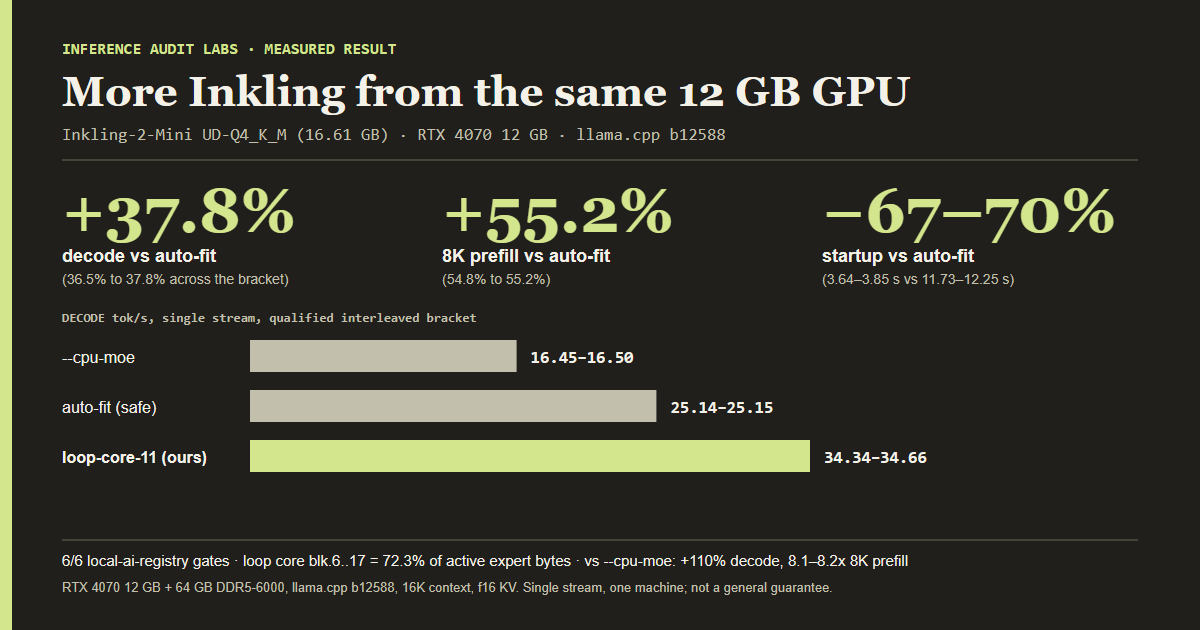
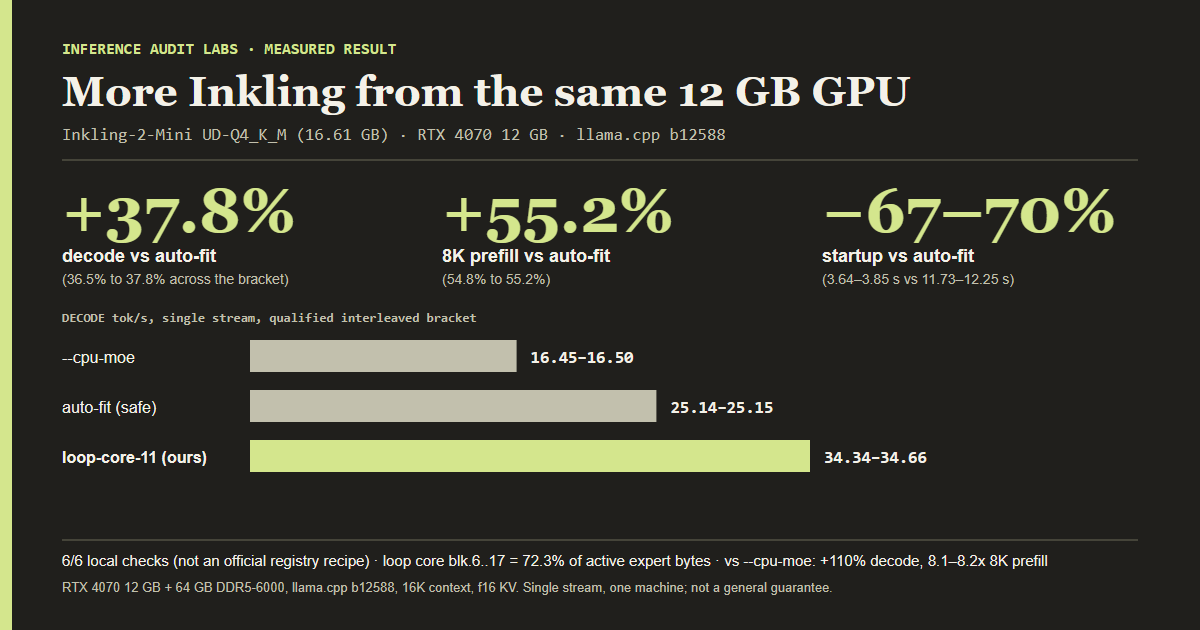
Tighten local acceptance check wording to distinguish from official local-ai-registry recipes

Changed region(s): [[0.0925, 0.8746, 0.8942, 0.9048]]

diff --git a/public/claims.html b/public/claims.html
@@ -76,7 +76,7 @@
 <p><strong>Claim.</strong> Inference Audit 0.2.1. Seventy-eight test cases passed in a fresh rerun of the 0.2.1 source suite on Windows during public preparation. Local native CUDA shutdown remains unverified.</p>
 <p><strong>Evidence / method.</strong> Installed wheel hash, CLI version and <code>pytest -q</code> test output are recorded in <a href="publication-checklist.html">publication checks</a>. Wheel and source version match. This is a local rerun; external reviews and native CUDA process control are separate claims. Used in the checklist and release notes.</p>
 <h2 id="p8-inkling">P8-INKLING</h2>
-<p><strong>Claim.</strong> Inkling-2-Mini (Unsloth UD-Q4_K_M, 16,610,543,328 bytes) on an RTX 4070 12 GB with 64 GB DDR5-6000 and llama.cpp b12588 (<code>883286076efe5b85fddb31d9cc7035a6b698ba9b</code>): the loop-aware placement <code>loop-core-11-nommap-ub512</code> (non-expert weights plus 11 of 12 looped core expert blocks <code>blk.6..17</code> on the GPU) decoded at 34.34–34.66 tok/s, +36.5% to +37.8% versus the safe auto-fit placement (25.14–25.15) and +108.2% to +110.1% versus <code>--cpu-moe</code> (16.45–16.50). Eight-thousand-token prefill was 796.29–798.54 tok/s, +54.8% to +55.2% versus auto-fit and 8.1–8.2× versus <code>--cpu-moe</code>. Startup was 3.64–3.85 s versus 11.73–12.25 s on auto-fit (−67% to −70%). All 6 of 6 local-ai-registry gates passed (load, chat, reasoning, 2/2 tool cases with counterfactual, 13,926-token needle at 85% context at 812.75 tok/s prefill, 1,010 tokens in 30.01 s = 33.62 tok/s) plus a six-request soak (median 34.20 tok/s, min 33.65 tok/s). The looped core is 72.3% of active expert bytes in 6.88 GB, a 3.0× per-GiB VRAM return. The 12-core boundary arm decoded at 37.00 tok/s but reached 11,057 MiB with 954 MiB free and hit the safety stop. The GGUF has 0 embedded DSpark tensors, so speculative drafting was deferred without downloading weights.</p>
+<p><strong>Claim.</strong> Inkling-2-Mini (Unsloth UD-Q4_K_M, 16,610,543,328 bytes) on an RTX 4070 12 GB with 64 GB DDR5-6000 and llama.cpp b12588 (<code>883286076efe5b85fddb31d9cc7035a6b698ba9b</code>): the loop-aware placement <code>loop-core-11-nommap-ub512</code> (non-expert weights plus 11 of 12 looped core expert blocks <code>blk.6..17</code> on the GPU) decoded at 34.34–34.66 tok/s, +36.5% to +37.8% versus the safe auto-fit placement (25.14–25.15) and +108.2% to +110.1% versus <code>--cpu-moe</code> (16.45–16.50). Eight-thousand-token prefill was 796.29–798.54 tok/s, +54.8% to +55.2% versus auto-fit and 8.1–8.2× versus <code>--cpu-moe</code>. Startup was 3.64–3.85 s versus 11.73–12.25 s on auto-fit (−67% to −70%). All 6 of 6 local acceptance checks (modeled on the <code>local-ai-registry</code> gate set) passed (load, chat, reasoning, 2/2 tool cases with counterfactual, 13,926-token needle at 85% context at 812.75 tok/s prefill, 1,010 tokens in 30.01 s = 33.62 tok/s) plus a six-request soak (median 34.20 tok/s, min 33.65 tok/s). This is not an officially accepted <code>local-ai-registry</code> recipe; vision, broader quality benchmarks, production concurrency and customer infrastructure remain unverified. The looped core is 72.3% of active expert bytes in 6.88 GB, a 3.0× per-GiB VRAM return. The 12-core boundary arm decoded at 37.00 tok/s but reached 11,057 MiB with 954 MiB free and hit the safety stop. The GGUF has 0 embedded DSpark tensors, so speculative drafting was deferred without downloading weights.</p>
 <p><strong>Evidence / method.</strong> <a href="evidence/inkling-hybrid.json"><code>public/evidence/inkling-hybrid.json</code></a> sections <code>qualified_comparison</code>, <code>placement_screen</code>, <code>secondary_levers_screen</code>, <code>acceptance_gates_b1_loop11</code>, <code>architecture</code> and <code>headline_qualified_gains</code>, with source summary hashes for <code>inkling-screen-02</code>, <code>inkling-levers-01</code>, <code>inkling-qualify-01</code> and <code>inkling-qualify-02</code>. Two interleaved runs per control and candidate, six decode requests each, prefill at 511, 2,047, 4,096 and 8,192 tokens with needle checks (all passed). Gain percentages compare each candidate run with its adjacent control. Method and launch command: <a href="inkling-hybrid.html">Inkling report</a>. Limits: one machine, one session, one stream, 16,384 context, f16 KV, text only, Windows. Hardware DRAM counters were unavailable, so the physical explanation is byte accounting from the GGUF and not a counter measurement. No concurrency, production rollout, output-quality benchmark or financial saving was tested. High confidence in the measured contrast within this scope.</p>
 <h2 id="p8-forge-ext">P8-FORGE-EXT</h2>
 <p><strong>Claim.</strong> On Forge Qwen3.5-9B Q4_K_M (Ollama 0.40.16, RTX 4070), one-token native MTP (k=1) is the optimum of k=1..3. Structured Python decode rose to 89.91 tok/s versus 65.21–72.80 for the interleaved defaults (+23.5% against the faster), and 4K-context code to 78.59 versus 63.47–67.47 tok/s (+16.5%). Greedy outputs were identical in 19 of 19 comparisons and executable tests were identical at 2 of 4 in every arm. Two and three draft tokens fell below the faster default on short code and prose and did not beat k=1. At concurrency 2 the k=1 arm reached 115.87 pooled code tok/s versus 111.14–121.88 for the defaults, a negative result, while peak board memory rose by 522 MiB (8,719 to 9,241 MiB).</p>

diff --git a/public/inkling-hybrid.html b/public/inkling-hybrid.html
@@ -1,6 +1,6 @@
 <!doctype html>
 <html lang="en">
-<head><meta charset="utf-8"><meta name="viewport" content="width=device-width,initial-scale=1"><meta name="description" content="Loop-aware expert placement for Inkling-2-Mini on one RTX 4070: +37.8% decode and +55.2% 8K prefill over llama.cpp auto-fit, 6 of 6 acceptance gates."><title>Place the looped core on the GPU: Inkling-2-Mini on one RTX 4070 | Inference Audit Labs</title>
+<head><meta charset="utf-8"><meta name="viewport" content="width=device-width,initial-scale=1"><meta name="description" content="Loop-aware expert placement for Inkling-2-Mini on one RTX 4070: +37.8% decode and +55.2% 8K prefill over llama.cpp auto-fit, 6 of 6 local acceptance checks."><title>Place the looped core on the GPU: Inkling-2-Mini on one RTX 4070 | Inference Audit Labs</title>
 <meta property="og:type" content="article"><meta property="og:title" content="Inkling-2-Mini loop-aware placement on one RTX 4070"><meta property="og:description" content="+37.8% decode and +55.2% 8K prefill versus llama.cpp auto-fit; 2.1x decode and 8.2x prefill versus --cpu-moe."><meta property="og:image" content="https://somsom786.github.io/inference-audit/assets/inkling-hybrid-social.png"><meta property="og:url" content="https://somsom786.github.io/inference-audit/inkling-hybrid.html">
 <link rel="canonical" href="https://somsom786.github.io/inference-audit/inkling-hybrid.html"><link rel="stylesheet" href="assets/labs.css"></head>
 <body>
@@ -19,7 +19,7 @@
 <tr><th scope="row">seq-postlude-6</th><td>19.25</td><td>94.8 at 1K</td><td>Screening run. Postlude experts on GPU. Not carried forward.</td></tr>
 <tr><th scope="row">moe-cache-6g</th><td>22.47</td><td>93.3 at 1K</td><td>Screening run. Expert cache. Not carried forward.</td></tr>
 <tr><th scope="row">llama.cpp auto-fit</th><td>25.14, 25.15</td><td>514.5, 496.1 at 8K</td><td>Two qualified controls. Startup 11.7 to 12.3 s.</td></tr>
-<tr class="win"><th scope="row">loop-core-11 (qualified winner)</th><td>34.34, 34.66</td><td>798.5, 796.3 at 8K</td><td>Two qualified runs. Startup 3.6 to 3.8 s. 6/6 gates.</td></tr>
+<tr class="win"><th scope="row">loop-core-11 (qualified winner)</th><td>34.34, 34.66</td><td>798.5, 796.3 at 8K</td><td>Two qualified runs. Startup 3.6 to 3.8 s. 6/6 local checks.</td></tr>
 <tr><th scope="row">loop-core-12 (boundary)</th><td>37.00</td><td>682.7 at 8K</td><td>Faster, but hit the VRAM safety stop with 954 MiB free. Rejected.</td></tr>
 </tbody></table></div>
 <p class="detail">Screening runs use a shorter 1K prefill probe and a single pass, so they are not directly comparable with the 8K qualified runs.</p>
@@ -33,8 +33,8 @@
 </div>
 </div>
 <div class="shell section category">
-<div class="section-heading"><h2>Six of six acceptance gates passed.</h2><p>Speed is only useful if the model still works. The winning configuration was held to the same checks as a production candidate.</p></div>
-<ol class="steps" aria-label="Acceptance gates">
+<div class="section-heading"><h2>Six of six local acceptance checks passed.</h2><p>Speed is only useful if the model still works. The winning configuration passed six local checks modeled on the local-ai-registry criteria. This is not an officially accepted local-ai-registry recipe.</p></div>
+<ol class="steps" aria-label="Local acceptance checks">
 <li><strong>Load</strong><span>Model loads and serves with the safety margin intact.</span></li>
 <li><strong>Chat</strong><span>Coherent completion, finish reason stop, about 33.9 tok/s.</span></li>
 <li><strong>Reasoning</strong><span>Correct short reasoning answer at low effort.</span></li>
@@ -49,7 +49,7 @@
 -ot "blk\.([0-5]|1[7-9]|2[0-3])\.ffn_.*_exps\.=CPU"
 --load-mode none -fa on -b 512 -ub 512 -t 8 -tb 8</pre>
 <p class="detail">Model: Unsloth Inkling-2-Mini UD-Q4_K_M GGUF, 16,610,543,328 bytes. Hardware: RTX 4070 12 GB, Ryzen 7 7800X3D, 64 GB DDR5-6000. Engine: llama.cpp b12588.</p>
-<div class="callout"><strong>Scope.</strong> One machine, one model, single stream, 16K context, f16 KV and low reasoning effort. This is a hardware-specific placement result. It does not establish multi-user capacity or a customer cost saving. The block split that wins on a 12 GB card will differ on other GPUs.</div>
+<div class="callout"><strong>Scope.</strong> One machine, one model, single stream, 16K context, f16 KV, text only and low reasoning effort. This is a hardware-specific placement result—not an officially accepted local-ai-registry recipe. Vision, broader output-quality benchmarks, production concurrency, external customer infrastructure and cost savings remain unverified. The block split that wins on a 12 GB card will differ on other GPUs.</div>
 <div class="explore"><a href="evidence/inkling-hybrid.json">Download measured results</a><a href="https://github.com/somsom786/inference-audit/blob/main/docs/case-study/INKLING_HYBRID.md">Read the technical report</a><a href="forge-mtp.html">See the Forge MTP experiment</a><a href="index.html#economics">Model conditional savings</a></div>
 </div>
 </main></body></html>

diff --git a/public/index.html b/public/index.html
@@ -7,7 +7,7 @@
 <meta name="description" content="Independent inference performance lab. Find out what your existing GPUs can deliver within your latency, context and correctness targets before buying more.">
 <meta property="og:type" content="website">
 <meta property="og:title" content="More inference. Same GPU budget. | Inference Audit Labs">
-<meta property="og:description" content="Inkling-2-Mini loop-aware placement on one RTX 4070: +37.8% decode and +55.2% 8K prefill versus llama.cpp auto-fit, with 6 of 6 acceptance gates passed.">
+<meta property="og:description" content="Inkling-2-Mini loop-aware placement on one RTX 4070: +37.8% decode and +55.2% 8K prefill versus llama.cpp auto-fit, with 6 of 6 local acceptance checks passed.">
 <meta property="og:image" content="https://somsom786.github.io/inference-audit/assets/inkling-hybrid-social.png">
 <meta property="og:image:alt" content="Inkling-2-Mini loop-aware placement on RTX 4070: 37.8% faster decode and 55.2% faster 8K prefill than llama.cpp auto-fit">
 <meta property="og:url" content="https://somsom786.github.io/inference-audit/">
@@ -32,7 +32,7 @@
         <h1>More inference. Same GPU budget.</h1>
         <p class="intro">Before buying more GPUs, find out what your existing hardware can actually deliver within your latency, context, and correctness targets.</p>
         <div class="actions"><a class="button" href="#pilot">Discuss a scoped pilot</a><a class="quiet" href="labs-case-study.html">Read the case study</a></div>
-        <p class="result-note" id="inkling-result"><a href="inkling-hybrid.html">+37.8% decode and +55.2% 8K prefill</a><span> · Inkling-2-Mini loop-aware placement on one RTX 4070 vs llama.cpp auto-fit. 6/6 acceptance gates.</span></p>
+        <p class="result-note" id="inkling-result"><a href="inkling-hybrid.html">+37.8% decode and +55.2% 8K prefill</a><span> · Inkling-2-Mini loop-aware placement on one RTX 4070 vs llama.cpp auto-fit. 6/6 local acceptance checks.</span></p>
         <p class="result-note" id="forge-result"><a href="forge-mtp.html">+7.0% code decode on the same RTX 4070</a><span> · Forge Qwen3.5-9B, one stream, faster neighboring default as baseline. Novel prose was flat.</span></p>
         <p class="result-note">Illustrative: at $50,000/month, a 30% qualified-throughput gain means 23.1% fewer GPU-hours, up to about $138,462/year if 100% of spend scales. <a href="#economics">Explore the scenario</a></p>
       </div>
@@ -50,14 +50,14 @@
         <div>
           <p class="label">Strongest verified result</p>
           <h3>Inkling-2-Mini: place the looped core on the GPU.</h3>
-          <p>Loop-aware expert placement beat llama.cpp auto-fit by +36.5% to +37.8% decode and +54.8% to +55.2% at 8K prefill. It ran 2.1x faster decode and 8.1–8.2x faster prefill than --cpu-moe, and passed 6 of 6 acceptance gates at 85% context.</p>
+          <p>Loop-aware expert placement beat llama.cpp auto-fit by +36.5% to +37.8% decode and +54.8% to +55.2% at 8K prefill. It ran 2.1x faster decode and 8.1–8.2x faster prefill than --cpu-moe, and passed 6 of 6 local acceptance checks (not an official registry recipe; vision, concurrency and production infra unverified).</p>
           <div class="actions"><a class="button" href="inkling-hybrid.html">Read the Inkling experiment</a><a href="evidence/inkling-hybrid.json">Download evidence</a></div>
         </div>
         <ul class="stat-list">
           <li><strong>+37.8%</strong>decode vs llama.cpp auto-fit</li>
           <li><strong>+55.2%</strong>8K prefill vs auto-fit</li>
           <li><strong>2.1x / 8.1–8.2x</strong>decode / prefill vs --cpu-moe</li>
-          <li><strong>6 / 6</strong>acceptance gates passed</li>
+          <li><strong>6 / 6</strong>local acceptance checks</li>
         </ul>
       </div>
       <div class="grid-2">

diff --git a/public/labs-case-study.html b/public/labs-case-study.html
@@ -7,7 +7,7 @@
 <section class="hero"><div class="shell hero-layout"><div><p class="label">Executive case study / RTX 4070</p><h1>More inference, honestly measured.</h1><p class="intro">One consumer GPU, four experiments. Two produced large verified gains, two showed exactly where a gain stops. Together they show why a GPU budget question needs a measurement before a purchase.</p></div><img src="assets/labs-results-poster.svg" width="1200" height="630" alt="Qwen3-8B study: 57.7% more output tokens per second on chat bursts, fewer on-time answers in a separate mixed trace"></div></section>
 <div class="shell section category">
 <p><span class="badge badge-labs">Measured by Inference Audit Labs</span></p>
-<section class="section-heading"><h2>Win one: architecture-aware placement.</h2><p>Inkling-2-Mini reuses 12 blocks three times per token. Placing 11 of those looped blocks on the GPU, rather than letting llama.cpp auto-fit decide, raised decode by +36.5% to +37.8% and 8K prefill by +54.8% to +55.2%. It was 2.1x faster at decode and 8.1–8.2x faster at prefill than offloading all experts with --cpu-moe, and passed 6 of 6 acceptance gates. The lesson: knowing the model architecture can be worth more than a hardware upgrade. <a href="inkling-hybrid.html">Read the Inkling experiment</a></p></section>
+<section class="section-heading"><h2>Win one: architecture-aware placement.</h2><p>Inkling-2-Mini reuses 12 blocks three times per token. Placing 11 of those looped blocks on the GPU, rather than letting llama.cpp auto-fit decide, raised decode by +36.5% to +37.8% and 8K prefill by +54.8% to +55.2%. It was 2.1x faster at decode and 8.1–8.2x faster at prefill than offloading all experts with --cpu-moe, and passed 6 of 6 local acceptance checks (not an officially accepted registry recipe; vision, broader quality, production concurrency and customer infrastructure remain unverified). The lesson: knowing the model architecture can be worth more than a hardware upgrade. <a href="inkling-hybrid.html">Read the Inkling experiment</a></p></section>
 <section class="section-heading"><h2>Win two, with a boundary: one draft token.</h2><p>On Forge Qwen3.5-9B, native speculation with one draft token raised single-stream code decode from 71.56–71.57 to 76.60 tok/s (+7.0%). The extended sweep confirmed k=1 as the optimum, with structured Python up 23.5% and 4K-context code up 16.5%, and 19 of 19 outputs matching byte for byte. But at concurrency 2 the gain vanished and VRAM rose by 522 MiB. A single-stream win is not a multi-user win. <a href="forge-mtp.html">See the Forge experiment</a></p></section>
 </div>
 <div class="shell section category">

diff --git a/scripts/publication/build_final_posters.py b/scripts/publication/build_final_posters.py
@@ -112,7 +112,7 @@ def inkling_svg(data, ext=None):
             t(250 + width + 14, y + 23, 17, CREAM, f"{fmt(lo)}\u2013{fmt(hi)}", MONO, "bold"),
         ]
     footer = [
-        (566, 15, CREAM, f"6/6 local-ai-registry gates \u00b7 loop core blk.6..17 = {data['architecture']['loop_core_share_of_expert_traffic_pct']}% of active expert bytes \u00b7 vs --cpu-moe: +{round(cpu_d_hi)}% decode, {fmt(prefill_lo, 1)}\u2013{fmt(prefill_hi, 1)}x 8K prefill"),
+        (566, 15, CREAM, f"6/6 local checks (not an official registry recipe) \u00b7 loop core blk.6..17 = {data['architecture']['loop_core_share_of_expert_traffic_pct']}% of active expert bytes \u00b7 vs --cpu-moe: +{round(cpu_d_hi)}% decode, {fmt(prefill_lo, 1)}\u2013{fmt(prefill_hi, 1)}x 8K prefill"),
         (592, 13, MUTED, "RTX 4070 12 GB + 64 GB DDR5-6000, llama.cpp b12588, 16K context, f16 KV. Single stream, one machine; not a general guarantee."),
     ]
     sub = f"Inkling-2-Mini UD-Q4_K_M ({fmt(data['weight_bytes'] / 1e9)} GB) \u00b7 RTX 4070 12 GB \u00b7 llama.cpp {data['engine']['build']}"

diff --git a/docs/case-study/INKLING_HYBRID.md b/docs/case-study/INKLING_HYBRID.md
@@ -12,7 +12,7 @@ Inkling-2-Mini (Unsloth `UD-Q4_K_M`, 16.61 GB, 26.4B parameters) is larger than 
 | 8K prefill, tok/s | 97.03–97.96 | 496.09–514.49 | **796.29–798.54** | **+54.8% to +55.2%** | 8.1–8.2× |
 | Startup (ready), s | 7.51–7.76 | 11.73–12.25 | **3.64–3.85** | **−67% to −70%** | not applicable |
 
-The configuration also passed **all 6 of 6** local-ai-registry acceptance gates and a six-request stability soak. The result is specific to this machine, this build, one stream and a 16,384-token context. It is a measured configuration trade-off, not a general guarantee or a verified cost saving.
+The configuration also passed **all 6 of 6** local acceptance checks (modeled on the `local-ai-registry` gate set) and a six-request stability soak. **This is not an officially accepted `local-ai-registry` recipe.** Vision, broader quality benchmarks, production concurrency and external customer infrastructure remain unverified. The result is specific to this machine, this build, one stream and a 16,384-token context—a measured configuration trade-off, not a general guarantee or a verified cost saving.
 
 Everything on this page is recomputable from [`public/evidence/inkling-hybrid.json`](../../public/evidence/inkling-hybrid.json). Claim wording and limits are in the [claims ledger](../publication/CLAIMS_LEDGER.md#p8-inkling).
 
@@ -84,11 +84,11 @@ Controls and candidate alternated (`cpu-moe`, auto-fit, candidate) with a repeat
 
 Gain ranges come from comparing each candidate run against its adjacent control. The candidate placed all non-expert weights (1.82 GB) plus 11 core expert blocks on CUDA0 (7,280.6 MiB model plus 240 MiB KV). The prelude, `blk.17` and the postlude experts (8,549.1 MiB) sat in pinned host RAM.
 
-## Acceptance gates: 6 of 6
+## Local acceptance checks: 6 of 6
 
-Run with the local-ai-registry gate set on the winning configuration.
+Run locally using checks modeled on the `local-ai-registry` gate criteria on the winning configuration. Passing these local checks does **not** make this an officially accepted `local-ai-registry` recipe (which requires a pinned clean Linux/container build and upstream review).
 
-| Gate | Result |
+| Check | Result |
 | --- | --- |
 | Load | Pass |
 | Chat | Pass (113 tokens, 33.93 tok/s, finish `stop`) |
@@ -97,7 +97,7 @@ Run with the local-ai-registry gate set on the winning configuration.
 | Context at 85% | Pass: 13,926-token prompt, needle `CTX85-7749-VQ` found, 812.75 tok/s prefill, 17.33 s TTFT |
 | Speed, 30 s uncapped | Pass: 1,010 tokens in 30.01 s = **33.62 tok/s** |
 
-A six-request soak ran at 33.65–34.21 tok/s (first 33.65, last 34.11, median 34.20), with no degradation.
+A six-request soak ran cleanly (first 33.65, last 34.11, median 34.20 tok/s, min 33.65 tok/s), with no degradation.
 
 ## Explicit VRAM boundary: the 12-core desktop limit
 
@@ -122,4 +122,4 @@ Verify placement in the startup log: roughly 7,280 MiB on `CUDA0`, 8,549 MiB in 
 
 ## Limits
 
-One machine, one session, one stream, 16,384 context, f16 KV, text only. Throughput was measured, not hardware DRAM counters, which are unavailable under Windows WDDM. Server decode medians exclude HTTP overhead. The placement choice depends on free VRAM at run time. No concurrency, production rollout, output-quality benchmark or financial saving was tested. See the [economics model](../../public/economics.html) for conditional scenarios, and the [Forge MTP report](FORGE_MTP.md) for a separate engine-level lever.
+One machine, one session, one stream, 16,384 context, f16 KV, text only. This configuration is **not** an officially accepted `local-ai-registry` recipe. Vision (`--no-mmproj`), broader output-quality benchmarks, production concurrency, external customer infrastructure, and financial savings remain unverified. Throughput was measured, not hardware DRAM counters, which are unavailable under Windows WDDM. Server decode medians exclude HTTP overhead. The placement choice depends on free VRAM at run time. See the [economics model](../../public/economics.html) for conditional scenarios, and the [Forge MTP report](FORGE_MTP.md) for a separate engine-level lever.

diff --git a/docs/publication/CLAIMS_LEDGER.md b/docs/publication/CLAIMS_LEDGER.md
@@ -112,7 +112,7 @@ Research paths below are relative to the local `inference-bench` archive. Produc
 
 ## P8-INKLING
 
-**Claim.** Inkling-2-Mini (Unsloth UD-Q4_K_M, 16,610,543,328 bytes) on an RTX 4070 12 GB with 64 GB DDR5-6000 and llama.cpp b12588 (`883286076efe5b85fddb31d9cc7035a6b698ba9b`): the loop-aware placement `loop-core-11-nommap-ub512` (non-expert weights plus 11 of 12 looped core expert blocks `blk.6..17` on the GPU) decoded at 34.34–34.66 tok/s, +36.5% to +37.8% versus the safe auto-fit placement (25.14–25.15) and +108.2% to +110.1% versus `--cpu-moe` (16.45–16.50). Eight-thousand-token prefill was 796.29–798.54 tok/s, +54.8% to +55.2% versus auto-fit and 8.1–8.2× versus `--cpu-moe`. Startup was 3.64–3.85 s versus 11.73–12.25 s on auto-fit (−67% to −70%). All 6 of 6 local-ai-registry gates passed (load, chat, reasoning, 2/2 tool cases with counterfactual, 13,926-token needle at 85% context at 812.75 tok/s prefill, 1,010 tokens in 30.01 s = 33.62 tok/s) plus a six-request soak (median 34.20 tok/s, min 33.65 tok/s). The looped core is 72.3% of active expert bytes in 6.88 GB, a 3.0× per-GiB VRAM return. The 12-core boundary arm decoded at 37.00 tok/s but reached 11,057 MiB with 954 MiB free and hit the safety stop. The GGUF has 0 embedded DSpark tensors, so speculative drafting was deferred without downloading weights.
+**Claim.** Inkling-2-Mini (Unsloth UD-Q4_K_M, 16,610,543,328 bytes) on an RTX 4070 12 GB with 64 GB DDR5-6000 and llama.cpp b12588 (`883286076efe5b85fddb31d9cc7035a6b698ba9b`): the loop-aware placement `loop-core-11-nommap-ub512` (non-expert weights plus 11 of 12 looped core expert blocks `blk.6..17` on the GPU) decoded at 34.34–34.66 tok/s, +36.5% to +37.8% versus the safe auto-fit placement (25.14–25.15) and +108.2% to +110.1% versus `--cpu-moe` (16.45–16.50). Eight-thousand-token prefill was 796.29–798.54 tok/s, +54.8% to +55.2% versus auto-fit and 8.1–8.2× versus `--cpu-moe`. Startup was 3.64–3.85 s versus 11.73–12.25 s on auto-fit (−67% to −70%). All 6 of 6 local acceptance checks (modeled on the `local-ai-registry` gate set) passed (load, chat, reasoning, 2/2 tool cases with counterfactual, 13,926-token needle at 85% context at 812.75 tok/s prefill, 1,010 tokens in 30.01 s = 33.62 tok/s) plus a six-request soak (median 34.20 tok/s, min 33.65 tok/s). This is not an officially accepted `local-ai-registry` recipe; vision, broader quality benchmarks, production concurrency and customer infrastructure remain unverified. The looped core is 72.3% of active expert bytes in 6.88 GB, a 3.0× per-GiB VRAM return. The 12-core boundary arm decoded at 37.00 tok/s but reached 11,057 MiB with 954 MiB free and hit the safety stop. The GGUF has 0 embedded DSpark tensors, so speculative drafting was deferred without downloading weights.
 
 **Evidence / method.** [`public/evidence/inkling-hybrid.json`](../../public/evidence/inkling-hybrid.json) sections `qualified_comparison`, `placement_screen`, `secondary_levers_screen`, `acceptance_gates_b1_loop11`, `architecture` and `headline_qualified_gains`, with source summary hashes for `inkling-screen-02`, `inkling-levers-01`, `inkling-qualify-01` and `inkling-qualify-02`. Two interleaved runs per control and candidate, six decode requests each, prefill at 511, 2,047, 4,096 and 8,192 tokens with needle checks (all passed). Gain percentages compare each candidate run with its adjacent control. Method and launch command: [Inkling report](../case-study/INKLING_HYBRID.md). Limits: one machine, one session, one stream, 16,384 context, f16 KV, text only, Windows. Hardware DRAM counters were unavailable, so the physical explanation is byte accounting from the GGUF and not a counter measurement. No concurrency, production rollout, output-quality benchmark or financial saving was tested. High confidence in the measured contrast within this scope.
 

diff --git a/README.md b/README.md
@@ -6,7 +6,7 @@ Inference Audit is a local-first CLI and research practice for self-hosted infer
 
 **Why it matters financially.** Qualified throughput is the only throughput that reduces cost. As an illustrative conditional scenario, a **+30%** qualified throughput gain means **23.1% fewer GPU-hours** for the same demand (up to $138,462 a year on a $50K/month fleet). The scenario is arithmetic, not a measured saving: it holds only if the gain is qualified on your workload. [Economics model](https://somsom786.github.io/inference-audit/economics.html)
 
-**Strongest new verified result.** Inkling-2-Mini (16.61 GB) on one RTX 4070 12 GB with loop-aware tensor placement: **+37.8% decode, +55.2% 8K prefill and −67% to −70% startup versus the safe auto-fit placement**, and **+110% decode and 8.1–8.2× prefill versus `--cpu-moe`**. It passed **6 of 6** local-ai-registry gates. One machine, one stream, 16K context. [Technical report](docs/case-study/INKLING_HYBRID.md) · [Claim `P8-INKLING`](docs/publication/CLAIMS_LEDGER.md#p8-inkling)
+**Strongest new verified result.** Inkling-2-Mini (16.61 GB) on one RTX 4070 12 GB with loop-aware tensor placement: **+37.8% decode, +55.2% 8K prefill and −67% to −70% startup versus the safe auto-fit placement**, and **+110% decode and 8.1–8.2× prefill versus `--cpu-moe`**. It passed **6 of 6** local acceptance checks (not an officially accepted `local-ai-registry` recipe; vision, broader quality, production concurrency and customer infrastructure remain unverified). One machine, one stream, 16K context. [Technical report](docs/case-study/INKLING_HYBRID.md) · [Claim `P8-INKLING`](docs/publication/CLAIMS_LEDGER.md#p8-inkling)
 
 [![Inkling-2-Mini on an RTX 4070: +37.8% decode, +55.2% 8K prefill, -67% to -70% startup versus auto-fit](public/assets/inkling-hybrid-social.png)](docs/case-study/INKLING_HYBRID.md)
 

diff --git a/docs/case-study/LABS_TECHNICAL_REPORT.md b/docs/case-study/LABS_TECHNICAL_REPORT.md
@@ -39,7 +39,7 @@ Inkling-2-Mini (Unsloth UD-Q4_K_M, 16.61 GB) does not fit in 12 GB of VRAM, so p
 | 8K prefill tok/s | 496.09–514.49 | 97.03–97.96 | **796.29–798.54** | +54.8% to +55.2% vs auto-fit; 8.1–8.2× vs `--cpu-moe` |
 | Startup, s | 11.73–12.25 | 7.51–7.76 | **3.64–3.85** | −67% to −70% vs auto-fit |
 
-The winner passed all six local-ai-registry gates and a six-request soak (33.62 tok/s in the 30-second uncapped test, 13,926-token needle at 85% of context). A twelve-block variant decoded at 37.00 tok/s but left only 954 MiB free on a desktop board and is recorded as the boundary, not the recommendation. The GGUF has no embedded DSpark tensors, so speculative drafting was deferred. Full method, screens and launch command: [Inkling report](INKLING_HYBRID.md). Claim: [`P8-INKLING`](../publication/CLAIMS_LEDGER.md#p8-inkling).
+The winner passed all six local acceptance checks (modeled on the `local-ai-registry` gate set) and a six-request soak (33.62 tok/s in the 30-second uncapped test, 13,926-token needle at 85% of context). It is not an officially accepted `local-ai-registry` recipe; vision, broader quality benchmarks, production concurrency and customer infrastructure remain unverified. A twelve-block variant decoded at 37.00 tok/s but left only 954 MiB free on a desktop board and is recorded as the boundary, not the recommendation. The GGUF has no embedded DSpark tensors, so speculative drafting was deferred. Full method, screens and launch command: [Inkling report](INKLING_HYBRID.md). Claim: [`P8-INKLING`](../publication/CLAIMS_LEDGER.md#p8-inkling).
 
 ## Forge MTP, extended
 
